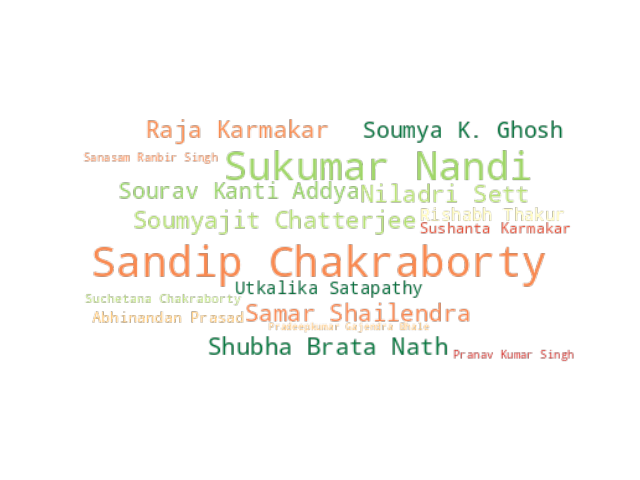
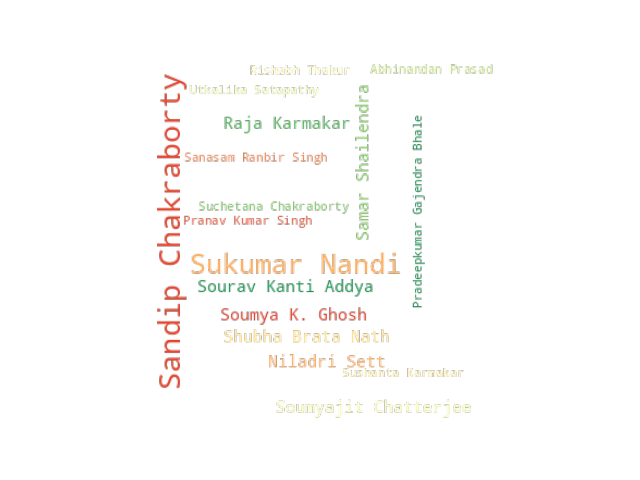
new file:   ../imgs/5GUCL_Logo.bw.png 	new file:   ../imgs/NIL_Logo.bw.png 	modified:   Charts/authorWordCloud.png 	modified:   co-author-graph-gen.py

Changed region(s): [[0.125, 0.125, 0.9062, 0.8125], [0.5938, 0.8125, 0.75, 0.875], [0.4375, 0.8438, 0.5625, 0.875]]

diff --git a/pub/co-author-graph-gen.py b/pub/co-author-graph-gen.py
@@ -9,8 +9,9 @@ import networkx as nx
 #import xmltodict
 import os
 import matplotlib.pyplot as plt
+from PIL import Image
 from wordcloud import WordCloud
-#import numpy as np
+import numpy as np
 #import holoviews as hv
 #from holoviews import opts, dim
 #import holoviews.plotting.bokeh
@@ -126,9 +127,13 @@ def legendToHTML(reverseLegend,chart_gen_code_legend_file):
 		myfile.write("<h6>Used https://www.amcharts.com/demos/chord-diagram/ to generate chord diagram.</h6>")
 	return
 #############################################################
-def createWordCloud(d,file):
-	wordcloud = WordCloud(mode="RGBA", background_color=None, colormap='RdYlGn')
-	wordcloud.generate_from_frequencies(frequencies=d)
+def createWordCloud(freq,file,maskFile=None):
+	if(maskFile):
+		mask_arr = np.array(Image.open(maskFile))
+	else:
+		mask_arr=None
+	wordcloud = WordCloud(mode="RGBA", background_color=None, colormap='RdYlGn', mask=mask_arr)
+	wordcloud.generate_from_frequencies(frequencies=freq)
 	plt.figure()
 	plt.imshow(wordcloud, interpolation="bilinear")
 	plt.axis("off")
@@ -145,7 +150,7 @@ legendToHTML(reverseLegend,chart_gen_code_legend_file)
 os.system("cat Charts/ChartData-1.html Charts/ChartData-2.html Charts/ChartData-3.html> Charts/ChartData.html")
 
 freqList=bibListToFreq([])
-createWordCloud(freqList,"Charts/authorWordCloud.png")
+createWordCloud(freqList,"Charts/authorWordCloud.png",maskFile="../imgs/NIL_Logo.bw.png")
 #print("cat Charts/ChartData-1.html Charts/ChartData-2.html Charts/ChartData-3.html > Charts/ChartData.html")
 print("Use https://www.amcharts.com/demos/chord-diagram/ to generate chord diagram.")
 #############################################################
